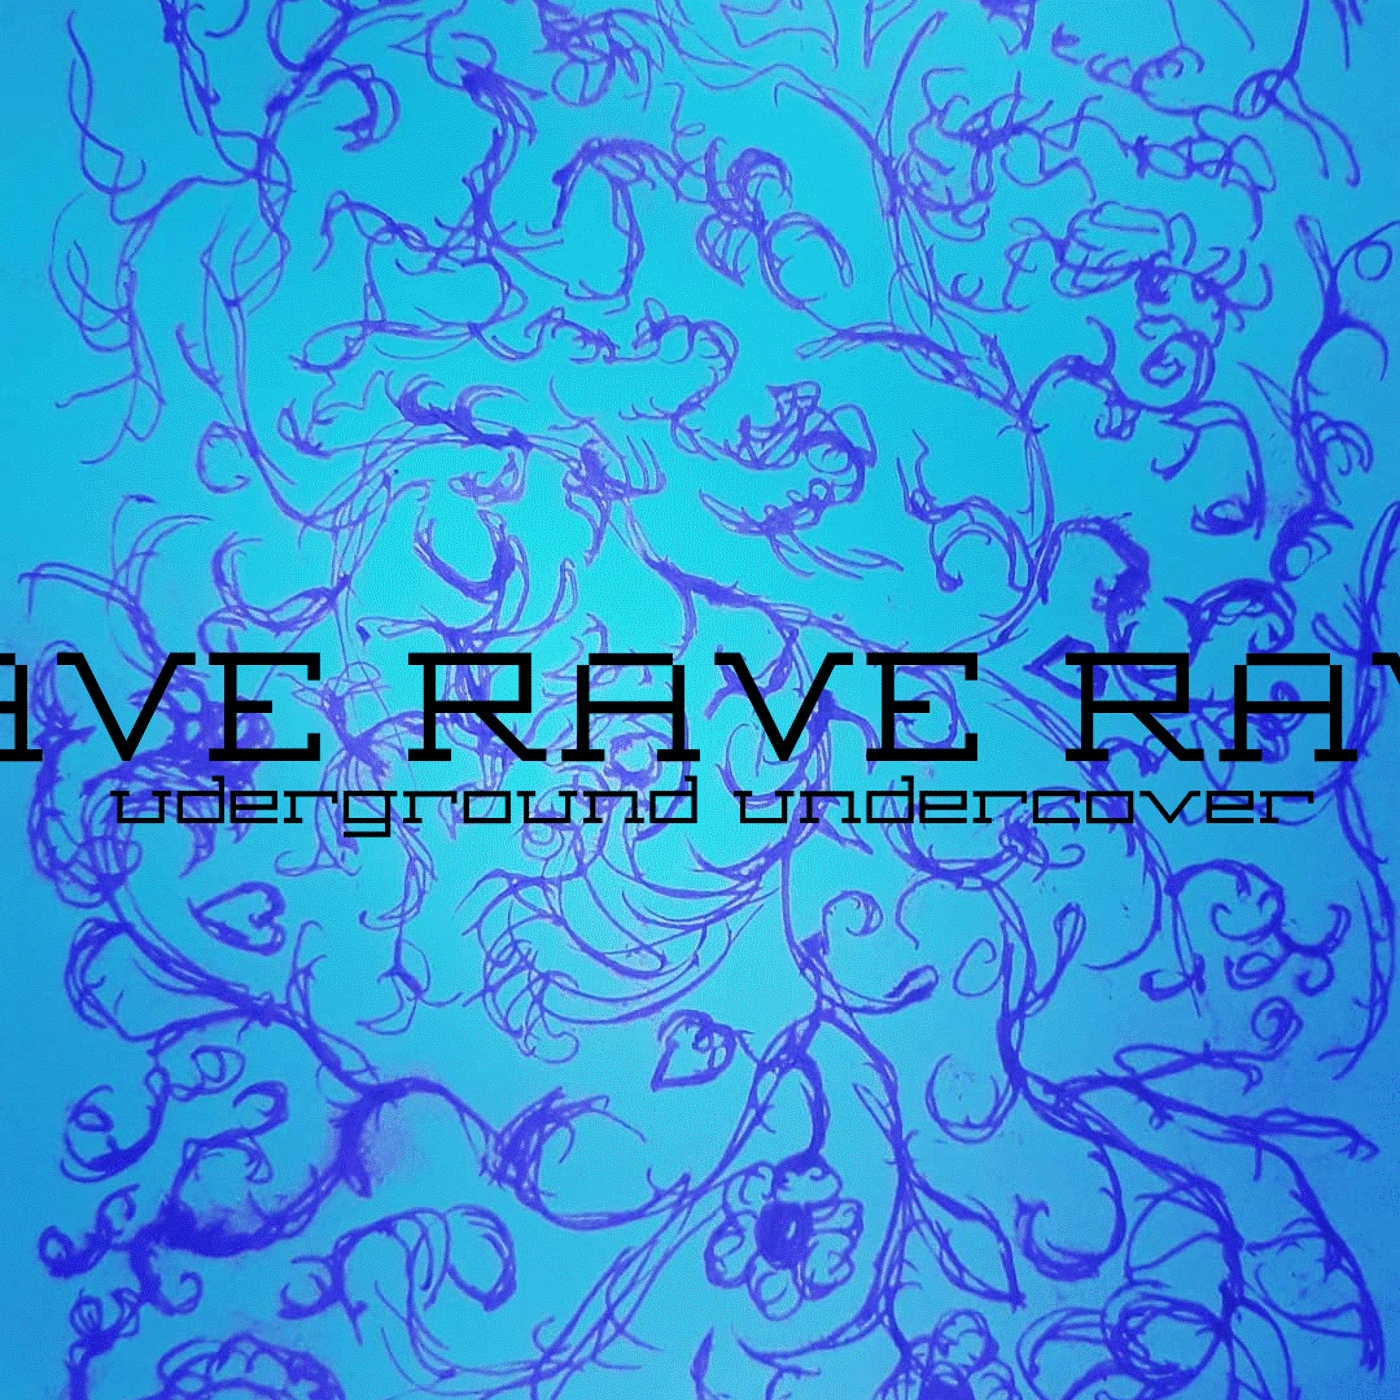
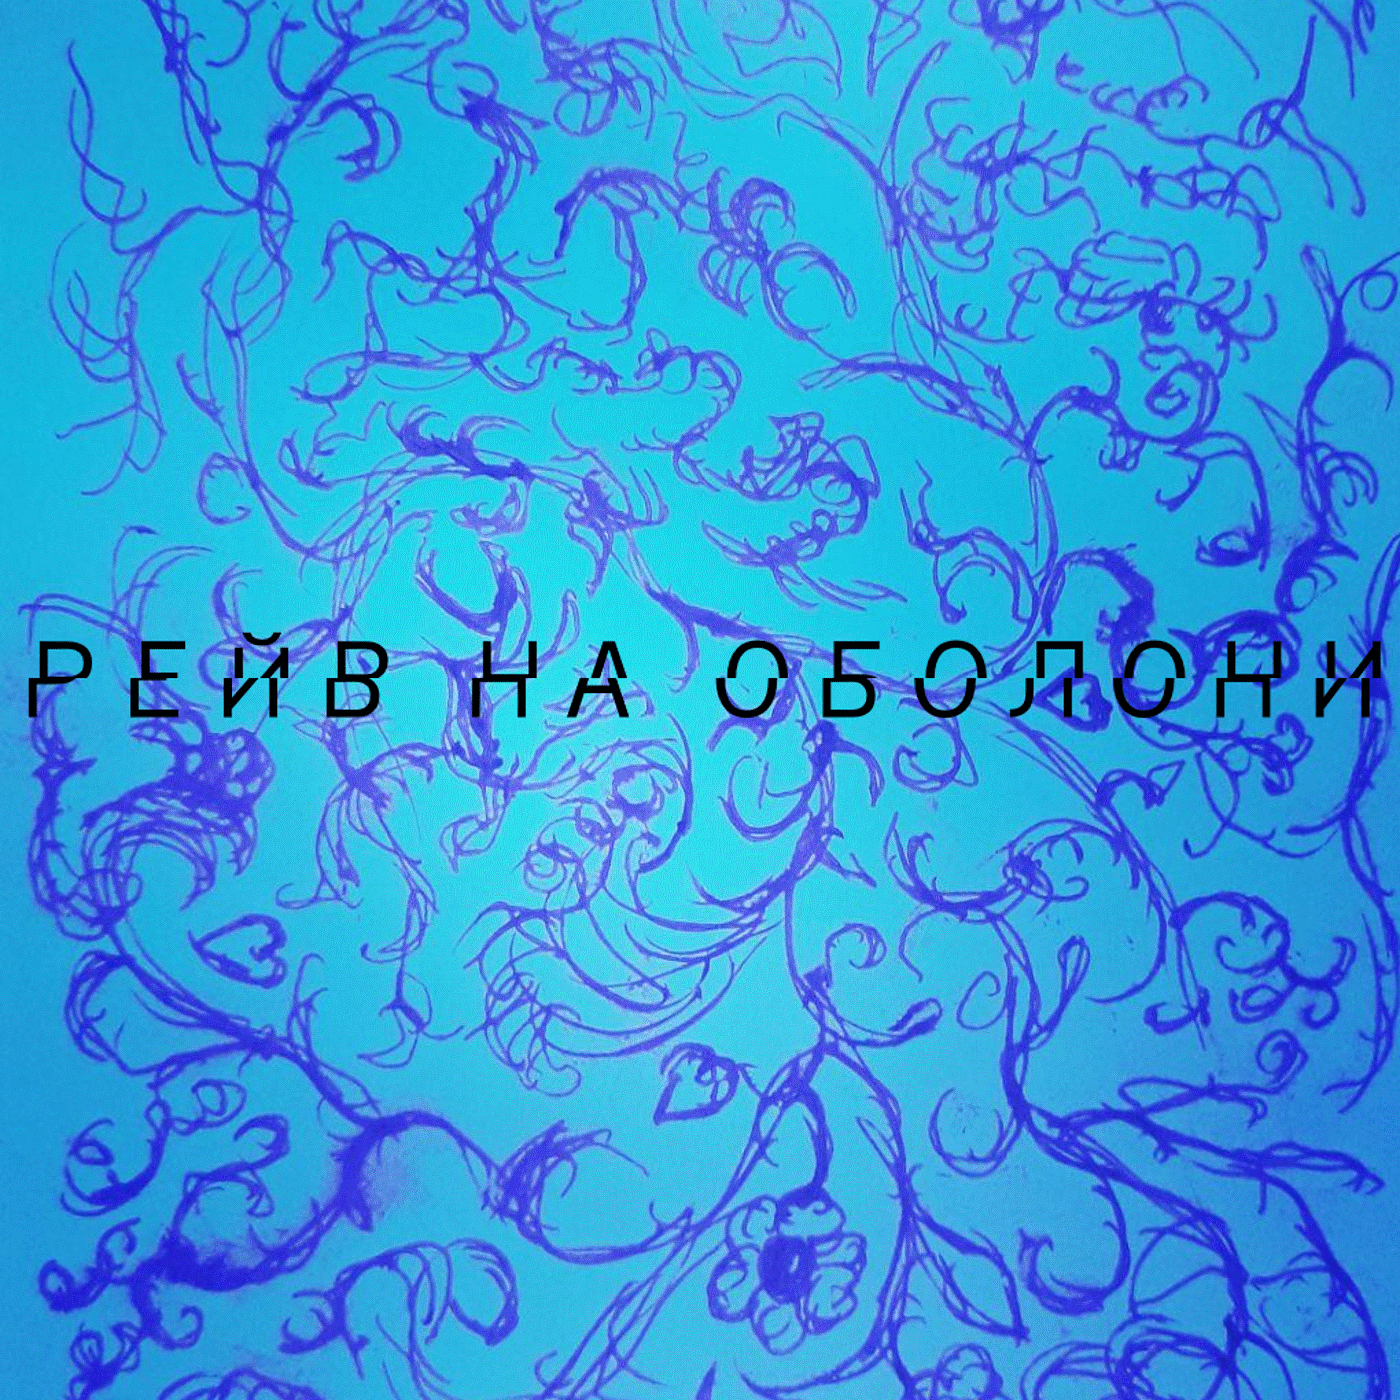
rna release

diff --git a/releases.html b/releases.html
@@ -47,9 +47,14 @@
                         <i>chz</i>, 2020
                         <p class="card-text">
                         <div class="links">
-                            <i>
-                                Coming soon...
-                            </i>
+                            <a class="ignore-js" href="https://soundcloud.com/solar2013_chz/sets/reyv-na-oboloni">Listen on
+                                SoundCloud</a>
+                            <a class="ignore-js" href="https://music.apple.com/ua/album/%D1%80%D0%B5%D0%B9%D0%B2-%D0%BD%D0%B0-%D0%BE%D0%B1%D0%BE%D0%BB%D0%BE%D0%BD%D0%B8/1518788959">Listen
+                                on Apple Music</a>
+                            <a class="ignore-js" href="https://www.deezer.com/en/album/154996422">Listen on Deezer</a>
+                            <a class="ignore-js"
+                                href="https://play.google.com/music/listen?u=0#/album/B3wzz45tr7dmd343az5pzgsizzi/chz/%D0%A0%D0%95%D0%99%D0%92+%D0%9D%D0%90+%D0%9E%D0%91%D0%9E%D0%9B%D0%9E%D0%9D%D0%98">Listen
+                                on Play Music</a>
                         </div>
                         </p>
                         <p></p>
